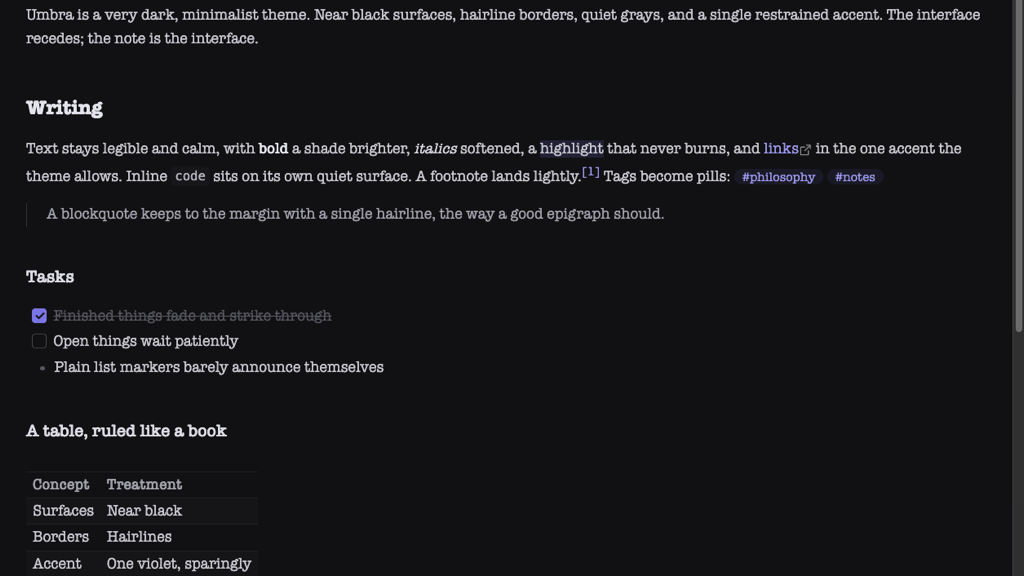
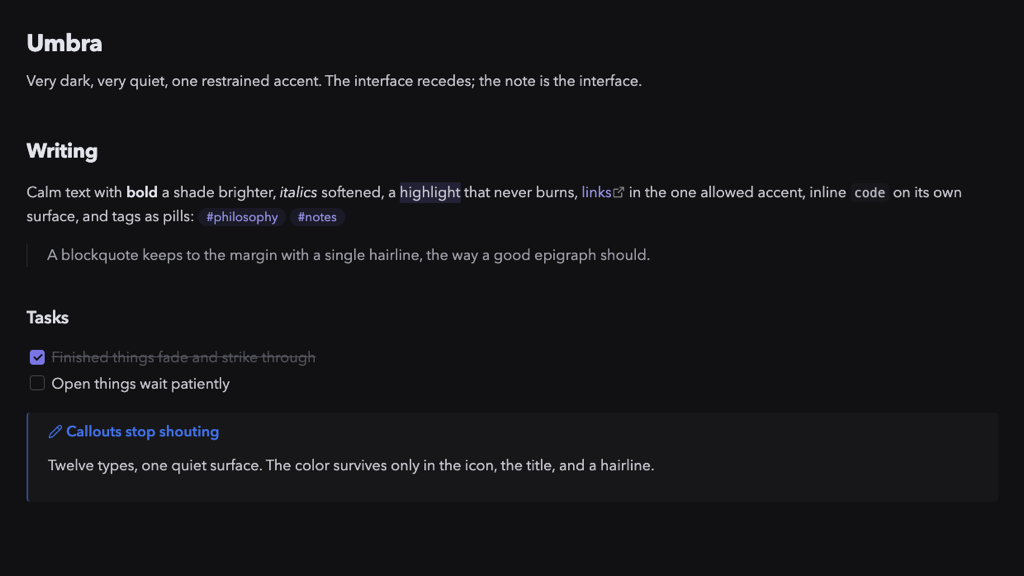
1.1.4: theme fonts from system faces, new gallery screenshot

diff --git a/theme.css b/theme.css
@@ -24,6 +24,16 @@ settings:
 .theme-dark {
   color-scheme: dark;
 
+  /* ---- Type ------------------------------------------------------------ */
+  /* System-installed faces only, never downloaded. Your own font choice in
+     Settings, Appearance always wins over these. */
+  --font-text-theme: "Avenir Next", "Inter", "Segoe UI Variable", "Segoe UI",
+    system-ui, sans-serif;
+  --font-interface-theme: "Avenir Next", "Inter", "Segoe UI Variable",
+    "Segoe UI", system-ui, sans-serif;
+  --font-monospace-theme: "JetBrains Mono", "SF Mono", ui-monospace,
+    "Cascadia Code", Menlo, Consolas, monospace;
+
   /* ---- The one accent, and everything derived from it ------------------ */
   --umbra-accent: #7d76e8;
   --umbra-accent-strong: color-mix(in srgb, var(--umbra-accent), #ffffff 12%);

diff --git a/README.md b/README.md
@@ -25,7 +25,7 @@ Near black surfaces, hairline borders in place of visible chrome, muted grays fo
 ## Design choices
 
 - The editor sits on near black (#09090c); sidebars are one shade away, separated by hairlines rather than panels.
-- Your fonts are respected. Umbra sets weights and rhythm, never typefaces.
+- Type is set to elegant faces your system already has (Avenir Next, Inter, Segoe UI, with JetBrains Mono or SF Mono for code); nothing is ever downloaded, and any font you pick in Settings still wins.
 - Inactive tabs, the ribbon, the status bar, and frontmatter properties stay dim until you interact with them.
 - Completed tasks fade and strike through; list markers and indentation guides are barely there.
 - Shadows are gone except under popovers, where depth is information.